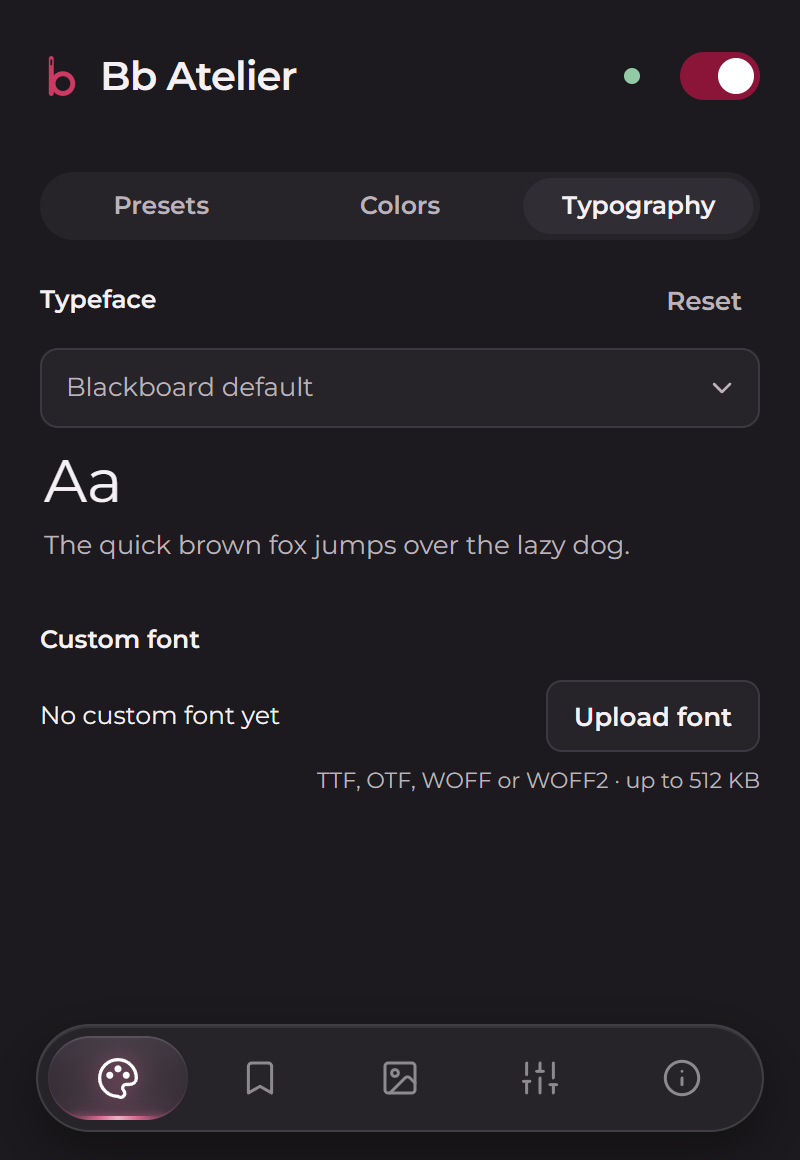
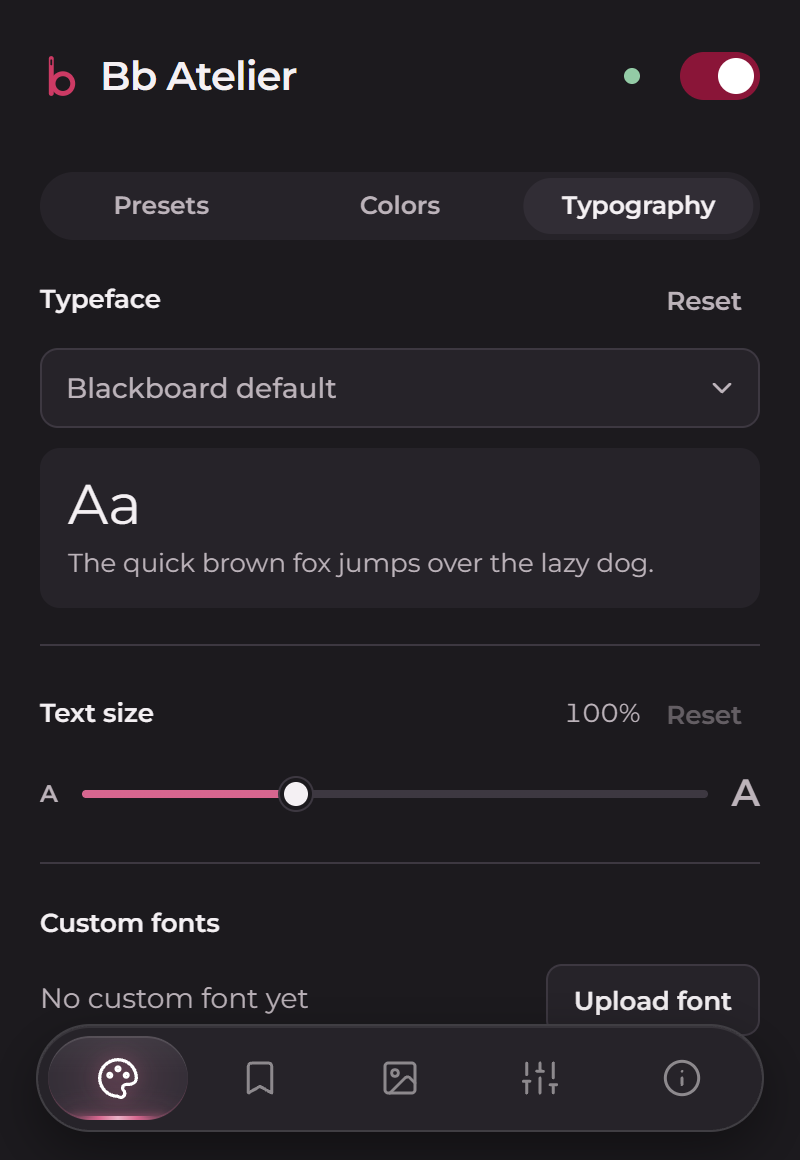
feat: store discoverability — keyword title/summary, rating nudge, share link
- manifest name/summary now carry the search terms (Blackboard, dark mode,
  themes); short_name keeps the toolbar label.
- About tab: Rate Bb Atelier, Send feedback, Copy a link for classmates.
- One-time rating nudge after 4 separate days of use; never after rating,
  30-day pause on Not now (state kept locally).
- Refreshed popup screenshots, new Gallery shot.

diff --git a/popup.html b/popup.html
@@ -109,6 +109,19 @@
     </p>
 
     <main>
+      <div class="rate-nudge" id="rateNudge" role="region" aria-label="Rate Bb Atelier" hidden>
+        <p>Enjoying Bb Atelier? A quick rating helps other students find it.</p>
+        <div class="rate-nudge-actions">
+          <a
+            class="btn primary"
+            id="rateNudgeLink"
+            href="#"
+            target="_blank"
+            rel="noopener"
+            >Rate it</a
+          ><button class="btn quiet" id="rateNudgeLater" type="button">Not now</button>
+        </div>
+      </div>
       <section class="tab-content active" data-tab="theme" id="tab-theme" role="tabpanel">
         <fieldset id="customizationControls" disabled>
           <legend class="sr-only">Theme customization</legend>
@@ -563,11 +576,22 @@
             more like my own space.
           </p>
           <p class="about-text">
-            It’s a side project, so ideas and bug reports really help. Spotted something off or want
-            a feature? Leave a review on the Chrome extensions page or send me a note!
+            It’s a side project, so ideas and bug reports really help. If you like it, a rating on
+            the Chrome Web Store helps other students find it. Spotted something off or want a
+            feature? Send me a note!
           </p>
-          <button class="btn primary about-feedback" id="feedbackBtn" type="button">
-            Send feedback
+          <div class="about-actions">
+            <a
+              class="btn primary"
+              id="rateStoreLink"
+              href="#"
+              target="_blank"
+              rel="noopener"
+              >Rate Bb Atelier</a
+            ><button class="btn secondary" id="feedbackBtn" type="button">Send feedback</button>
+          </div>
+          <button class="btn quiet about-share" id="shareStoreBtn" type="button">
+            Copy a link for classmates
           </button>
         </section>
       </section>

diff --git a/src/utils/ratePrompt.js b/src/utils/ratePrompt.js
@@ -1,0 +1,41 @@
+// When to ask for a store rating. Pure, so it is easy to test; the popup keeps the state
+// in local.ratePrompt = { days: ['YYYY-MM-DD', …], rated: bool, snoozedUntil: 'YYYY-MM-DD' }.
+export const RATE_AFTER_DAYS = 4;
+export const RATE_SNOOZE_DAYS = 30;
+const MAX_DAYS = 10;
+
+export const dayKey = (date) => date.toISOString().slice(0, 10);
+
+function addDays(day, count) {
+  const date = new Date(`${day}T00:00:00Z`);
+  date.setUTCDate(date.getUTCDate() + count);
+  return dayKey(date);
+}
+
+export function normalizeRateState(raw) {
+  const state = raw && typeof raw === 'object' ? raw : {};
+  const days = Array.isArray(state.days)
+    ? [...new Set(state.days.filter((d) => /^\d{4}-\d{2}-\d{2}$/.test(d)))].slice(-MAX_DAYS)
+    : [];
+  const snoozedUntil = /^\d{4}-\d{2}-\d{2}$/.test(state.snoozedUntil) ? state.snoozedUntil : null;
+  return { days, rated: state.rated === true, snoozedUntil };
+}
+
+/** Records that the popup was opened today. */
+export function recordVisit(raw, today) {
+  const state = normalizeRateState(raw);
+  if (!state.days.includes(today)) state.days = [...state.days, today].slice(-MAX_DAYS);
+  return state;
+}
+
+/** Ask once the extension has been opened on a few separate days, never after rating. */
+export function shouldAskForRating(raw, today) {
+  const state = normalizeRateState(raw);
+  if (state.rated) return false;
+  if (state.snoozedUntil && today < state.snoozedUntil) return false;
+  return state.days.length >= RATE_AFTER_DAYS;
+}
+
+export function snooze(raw, today) {
+  return { ...normalizeRateState(raw), snoozedUntil: addDays(today, RATE_SNOOZE_DAYS) };
+}

diff --git a/src/popup/ratePrompt.js b/src/popup/ratePrompt.js
@@ -1,0 +1,39 @@
+import { STORE_REVIEWS_URL, STORE_URL } from '../utils/constants.js';
+import { dayKey, recordVisit, shouldAskForRating, snooze } from '../utils/ratePrompt.js';
+import { showToast } from '../utils/ui.js';
+
+// Ratings and word of mouth are how other students find Bb Atelier in the store. The
+// nudge appears after a few separate days of use and never again once someone rates.
+export async function initRatePrompt() {
+  const nudge = document.getElementById('rateNudge');
+  const today = dayKey(new Date());
+  const { ratePrompt } = await chrome.storage.local.get('ratePrompt');
+  let state = recordVisit(ratePrompt, today);
+  const save = () => chrome.storage.local.set({ ratePrompt: state }).catch(() => {});
+  save();
+  nudge.hidden = !shouldAskForRating(state, today);
+
+  const markRated = () => {
+    state = { ...state, rated: true };
+    nudge.hidden = true;
+    save();
+  };
+  for (const id of ['rateNudgeLink', 'rateStoreLink']) {
+    const link = document.getElementById(id);
+    link.href = STORE_REVIEWS_URL;
+    link.addEventListener('click', markRated);
+  }
+  document.getElementById('rateNudgeLater').addEventListener('click', () => {
+    state = snooze(state, today);
+    nudge.hidden = true;
+    save();
+  });
+  document.getElementById('shareStoreBtn').addEventListener('click', async () => {
+    try {
+      await navigator.clipboard.writeText(STORE_URL);
+      showToast('Link copied. Paste it to your classmates!');
+    } catch {
+      showToast(STORE_URL);
+    }
+  });
+}

diff --git a/tests/ratePrompt.test.js b/tests/ratePrompt.test.js
@@ -1,0 +1,33 @@
+import test from 'node:test';
+import assert from 'node:assert/strict';
+import {
+  recordVisit,
+  shouldAskForRating,
+  snooze,
+  RATE_AFTER_DAYS,
+} from '../src/utils/ratePrompt.js';
+
+const days = (n) =>
+  Array.from({ length: n }, (_, i) => `2026-11-${String(i + 1).padStart(2, '0')}`);
+
+test('asks only after the popup was opened on several separate days', () => {
+  let state = {};
+  for (const day of days(RATE_AFTER_DAYS - 1)) state = recordVisit(recordVisit(state, day), day);
+  assert.equal(shouldAskForRating(state, '2026-11-20'), false);
+  state = recordVisit(state, '2026-11-20');
+  assert.equal(shouldAskForRating(state, '2026-11-20'), true);
+});
+
+test('never asks again after rating, and waits after "Not now"', () => {
+  const ready = { days: days(RATE_AFTER_DAYS) };
+  assert.equal(shouldAskForRating({ ...ready, rated: true }, '2026-12-01'), false);
+  const later = snooze(ready, '2026-12-01');
+  assert.equal(later.snoozedUntil, '2026-12-31');
+  assert.equal(shouldAskForRating(later, '2026-12-15'), false);
+  assert.equal(shouldAskForRating(later, '2026-12-31'), true);
+});
+
+test('ignores malformed stored state', () => {
+  assert.equal(shouldAskForRating({ days: 'x', rated: 'yes' }, '2026-12-01'), false);
+  assert.equal(recordVisit(null, '2026-12-01').days.length, 1);
+});

diff --git a/style.css b/style.css
@@ -1501,13 +1501,6 @@ input[type='radio'] {
   font-size: 12.5px;
   line-height: 1.55;
 }
-.about-feedback {
-  display: inline-flex;
-  align-items: center;
-  justify-content: center;
-  margin-top: 4px;
-  text-decoration: none;
-}
 
 /* Typography fits the popup without scrolling. */
 #sub-font .panel-heading {
@@ -1797,4 +1790,42 @@ input[type='range']:focus-visible {
   border-color: transparent;
   background: var(--accent-soft);
   color: var(--accent);
+}
+
+/* About: rate / feedback / share (ratePrompt.js) */
+.about-actions {
+  display: flex;
+  gap: 8px;
+  margin-top: 4px;
+}
+a.btn {
+  color: inherit;
+  text-decoration: none;
+}
+a.btn.primary {
+  color: #fff;
+}
+.about-share {
+  margin-top: 6px;
+  padding-left: 0;
+  padding-right: 0;
+}
+/* One-time rating nudge, shown above the tabs after a few days of use. */
+.rate-nudge {
+  margin: 12px 20px 0;
+  padding: 12px 14px;
+  border: 1px solid var(--popup-border);
+  border-radius: 12px;
+  background: var(--accent-soft);
+  font-size: var(--text-label);
+  line-height: 1.5;
+}
+.rate-nudge-actions {
+  display: flex;
+  gap: 8px;
+  margin-top: 8px;
+}
+.rate-nudge .btn {
+  min-height: 32px;
+  padding: 5px 12px;
 }

diff --git a/src/popup/popup.js b/src/popup/popup.js
@@ -4,6 +4,7 @@ import { initSaved } from './savedThemes.js';
 import { initGallery } from './gallery.js';
 import { initSystemScheme } from './systemScheme.js';
 import { initAbout } from './about.js';
+import { initRatePrompt } from './ratePrompt.js';
 import { initCourseCovers } from './courseCovers.js';
 import { initSettingsTab } from './settingsTab.js';
 import { initCoverageAudit } from './coverageAudit.js';
@@ -47,6 +48,7 @@ async function boot() {
     initSettingsTab(sync);
     initCoverageAudit();
     initAbout();
+    initRatePrompt().catch(() => {});
     // Course discovery runs on demand when its tab opens.
     await initCourseCovers();
     initTabs(local.activeTab || stored.activeTab);

diff --git a/src/utils/constants.js b/src/utils/constants.js
@@ -50,3 +50,8 @@ export function normalizeTextScale(value) {
   const steps = Math.round(1 / TEXT_SCALE.step);
   return Math.round(clamped * steps) / steps;
 }
+
+// Chrome Web Store listing (item kdamchficcbjbpjlkoikmjhgbhdfmmgi).
+export const STORE_URL =
+  'https://chromewebstore.google.com/detail/kdamchficcbjbpjlkoikmjhgbhdfmmgi';
+export const STORE_REVIEWS_URL = `${STORE_URL}/reviews`;
